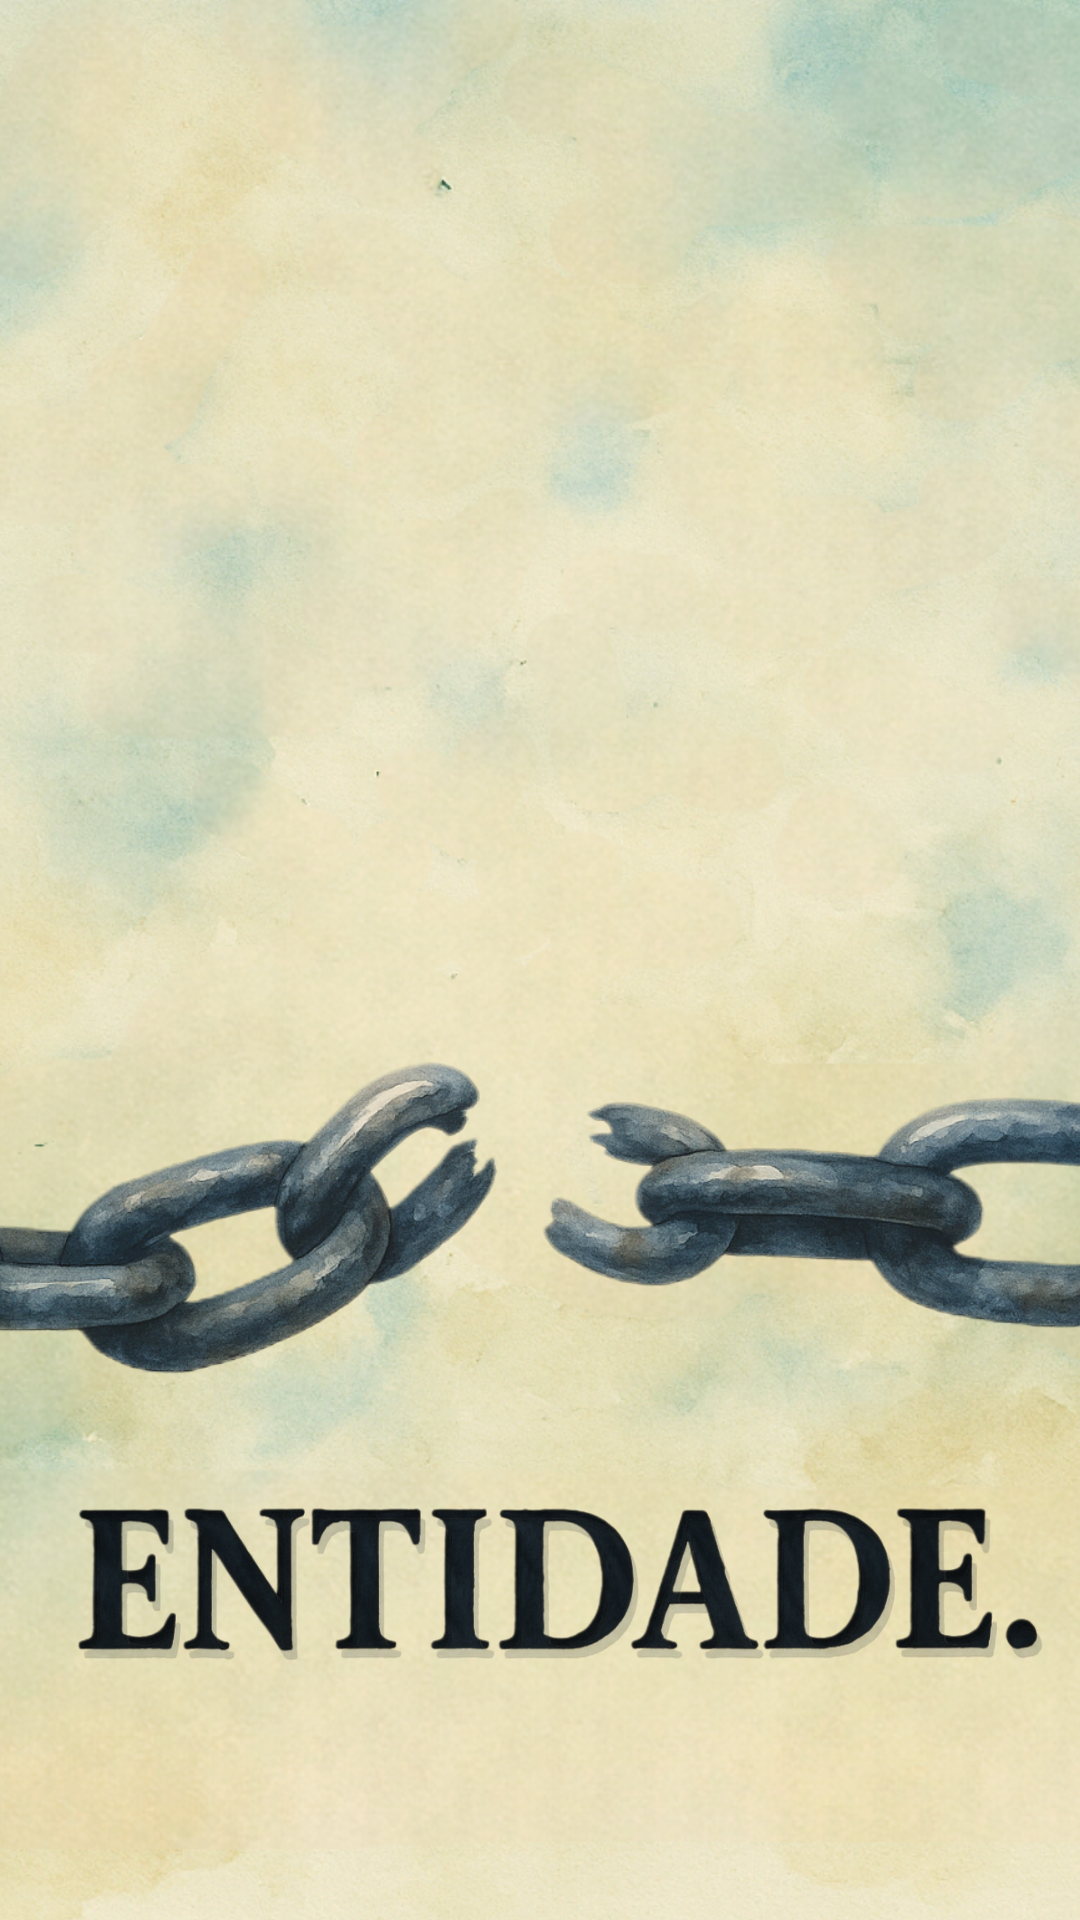
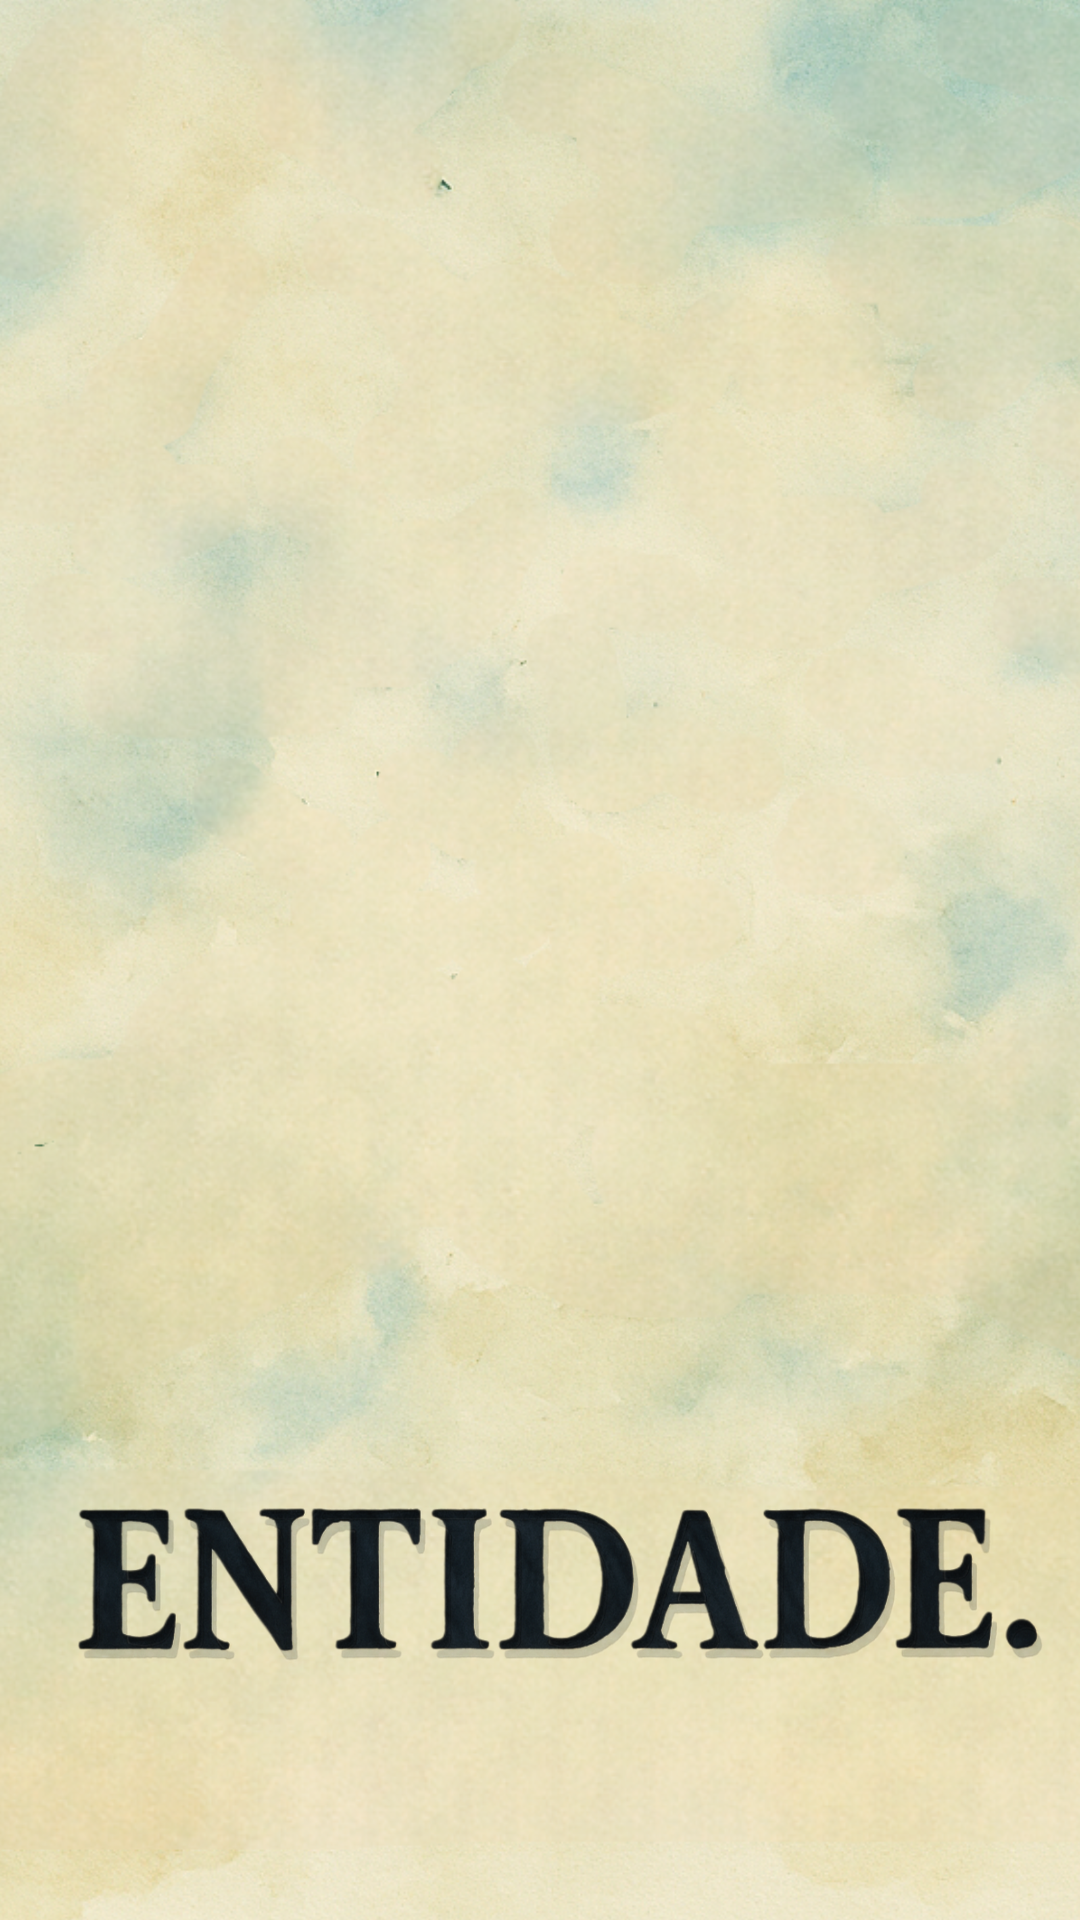
lol

Changed region(s): [[0.0, 0.5312, 0.4583, 0.7188], [0.4889, 0.5625, 1.0, 0.7188]]

diff --git a/src/App.jsx b/src/App.jsx
@@ -1,25 +1,40 @@
 import './birds.css';
+import './corrente.css';
 
 export default function App() {
   return (
     <main className="relative w-full h-screen overflow-hidden bg-black">
-      {/* Fundo universal para todas as telas */}
+      {/* Fundo aquarela */}
       <img
         src="/bg-aquarela.png"
         alt="Fundo completo"
         className="absolute inset-0 w-full h-full object-cover z-0"
       />
 
-      {/* Pássaros animados flutuando */}
+      {/* Corrente com animação de vibração */}
+      <img
+        src="/corrente.png"
+        alt="Corrente"
+        className="absolute bottom-10 md:bottom-16 left-1/2 -translate-x-1/2 w-[90vw] max-w-[700px] object-contain z-10 animate-vibrate pointer-events-none"
+      />
+
+      {/* Texto ENTIDADE */}
+      <img
+        src="/entidade-texto.png"
+        alt="ENTIDADE"
+        className="absolute bottom-2 left-1/2 -translate-x-1/2 w-[60vw] max-w-[400px] object-contain z-20 pointer-events-none"
+      />
+
+      {/* Pássaros maiores com animação de flutuação */}
       <img
         src="/passaros-flutuando.png"
         alt="Pássaros"
-        className="absolute bottom-[48%] left-1/2 w-[100vw] max-w-[720px] object-contain z-100 animate-fly pointer-events-none"
+        className="absolute bottom-[48%] left-1/2 w-[90vw] max-w-[640px] object-contain z-30 animate-fly pointer-events-none"
       />
 
       {/* Frase central */}
-      <div className="absolute bottom-[47%] md:bottom-[38%] left-1/2 -translate-x-1/2 z-40 px-4">
-        <h1 className="text-black text-lg sm:text-xl md:text-2xl lg:text-3xl xl:text-4xl font-bold tracking-widest uppercase max-w-md text-center drop-shadow-md leading-relaxed">
+      <div className="absolute bottom-[35%] md:bottom-[38%] left-1/2 -translate-x-1/2 z-40 px-4">
+        <h1 className="text-black text-lg sm:text-xl md:text-2xl lg:text-3xl xl:text-4xl font-semibold tracking-widest uppercase max-w-md text-center drop-shadow-md leading-relaxed">
           Você chegou até aqui.<br />Isso é tudo.
         </h1>
       </div>

diff --git a/src/corrente.css b/src/corrente.css
@@ -1,0 +1,9 @@
+@keyframes vibrate {
+  0%, 100% { transform: translateX(-50%) rotate(0deg); }
+  25% { transform: translateX(-50%) rotate(0.3deg); }
+  50% { transform: translateX(-50%) rotate(-0.3deg); }
+  75% { transform: translateX(-50%) rotate(0.15deg); }
+}
+.animate-vibrate {
+  animation: vibrate 1.2s ease-in-out infinite;
+}
